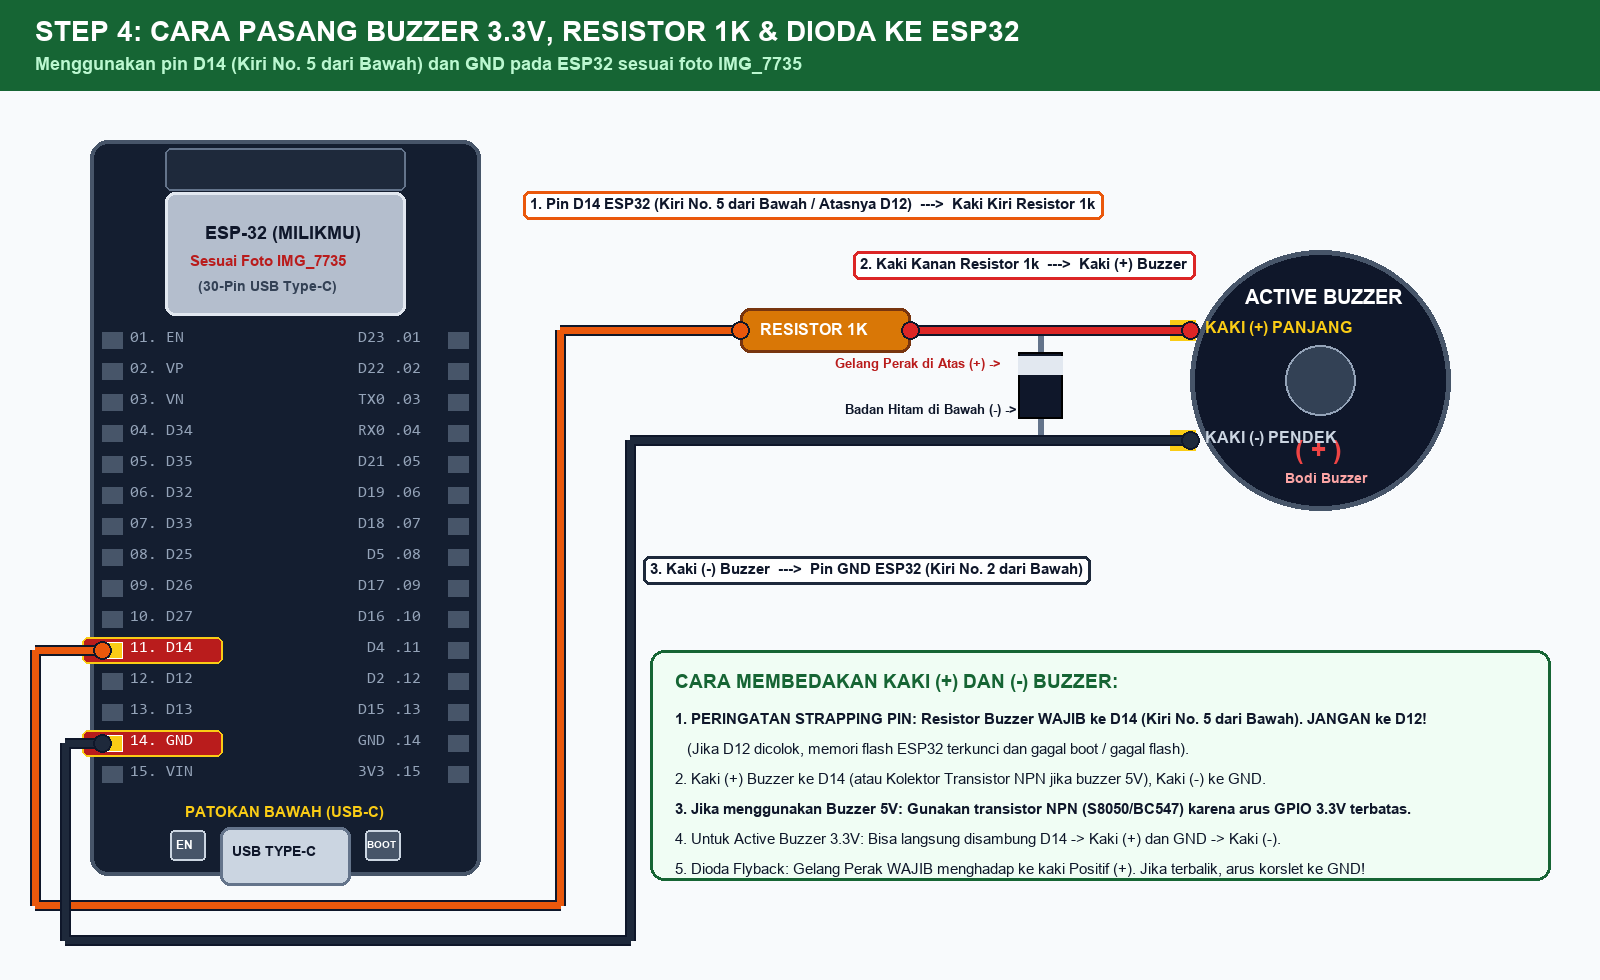
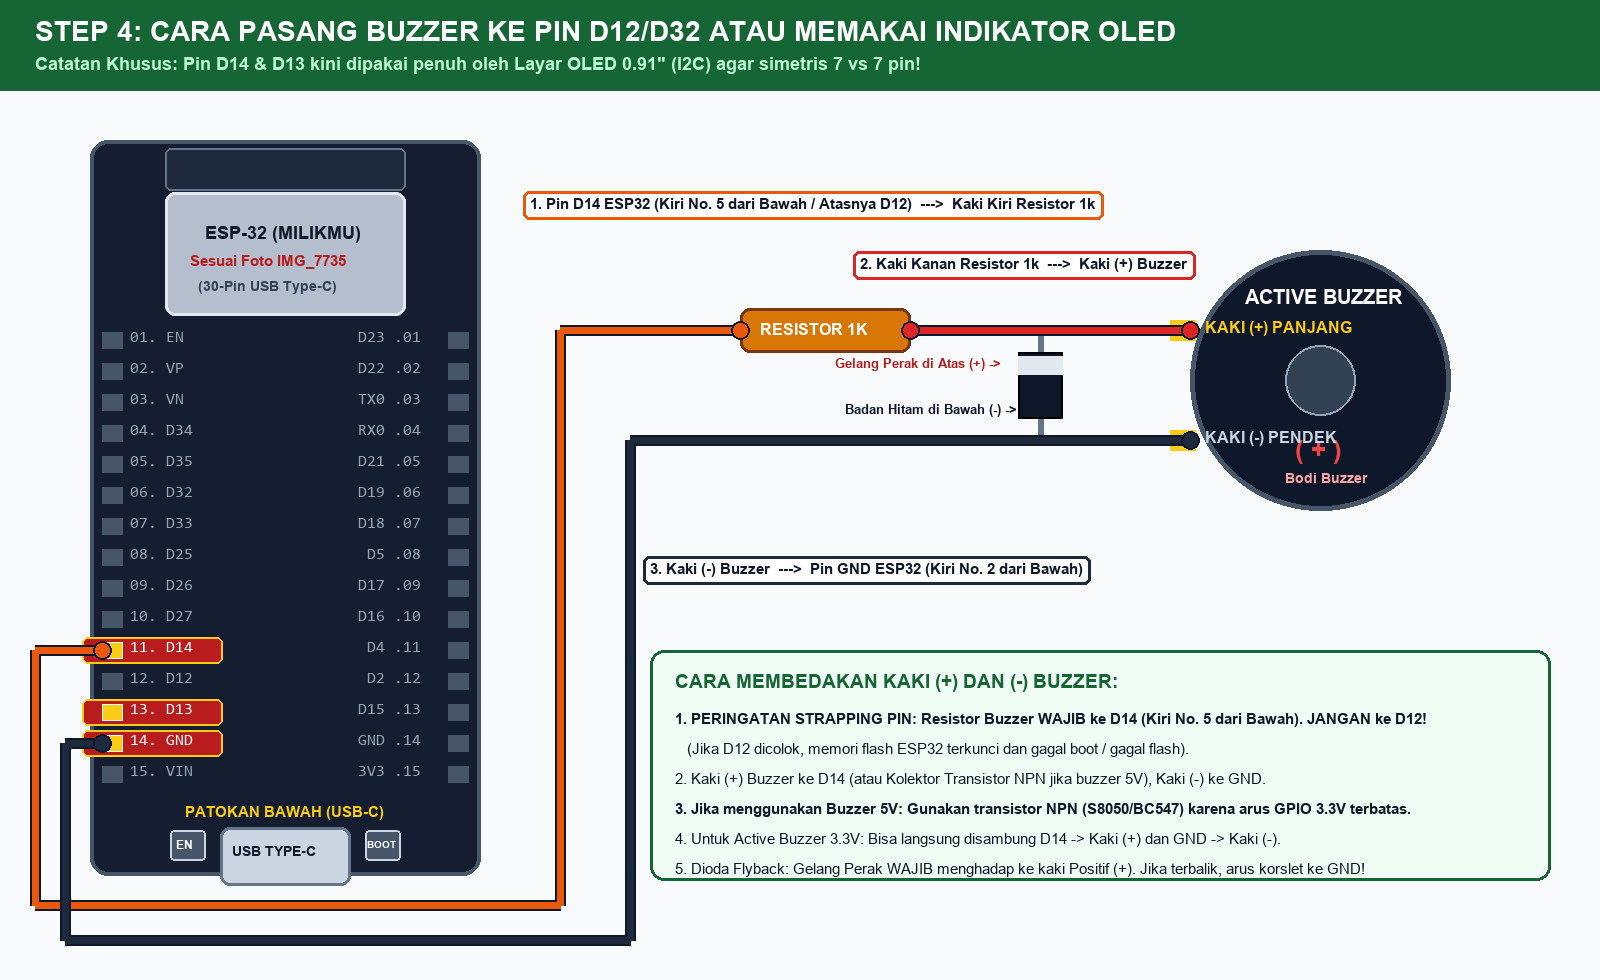
docs: sinkronkan seluruh gambar step wiring dengan susunan 7 vs 7 pin

Changed region(s): [[0.0312, 0.0, 0.75, 0.0918], [0.0312, 0.7041, 0.1562, 0.7653]]

diff --git a/render_wiring_steps.py b/render_wiring_steps.py
@@ -462,10 +462,10 @@ def make_step4():
     lbls = []
 
     d.rectangle([0, 0, W, 90], fill=(22, 101, 52))
-    d.text((35, 15), "STEP 4: CARA PASANG BUZZER 3.3V, RESISTOR 1K & DIODA KE ESP32", fill=(255, 255, 255), font=get_font(28, bold=True))
-    d.text((35, 53), "Menggunakan pin D14 (Kiri No. 5 dari Bawah) dan GND pada ESP32 sesuai foto IMG_7735", fill=(187, 247, 208), font=get_font(18, bold=True))
+    d.text((35, 15), "STEP 4: CARA PASANG BUZZER KE PIN D12/D32 ATAU MEMAKAI INDIKATOR OLED", fill=(255, 255, 255), font=get_font(28, bold=True))
+    d.text((35, 53), "Catatan Khusus: Pin D14 & D13 kini dipakai penuh oleh Layar OLED 0.91\" (I2C) agar simetris 7 vs 7 pin!", fill=(187, 247, 208), font=get_font(18, bold=True))
 
-    esp_coords = draw_esp32(d, 90, 140, active_left=["D14", "GND_L"], active_right=[])
+    esp_coords = draw_esp32(d, 90, 140, active_left=["D14", "D13", "GND_L"], active_right=[])
 
     bx, by = 1190, 250
     d.ellipse([bx, by, bx+260, by+260], fill=(15, 23, 42), outline=(71, 85, 105), width=5)
